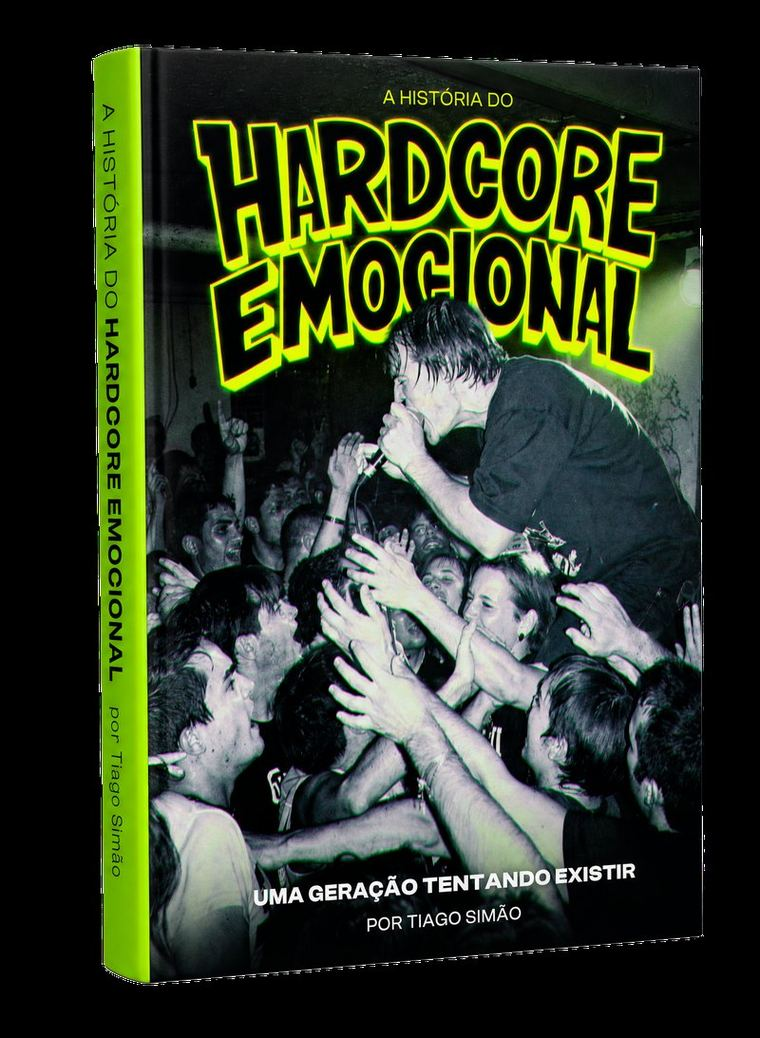
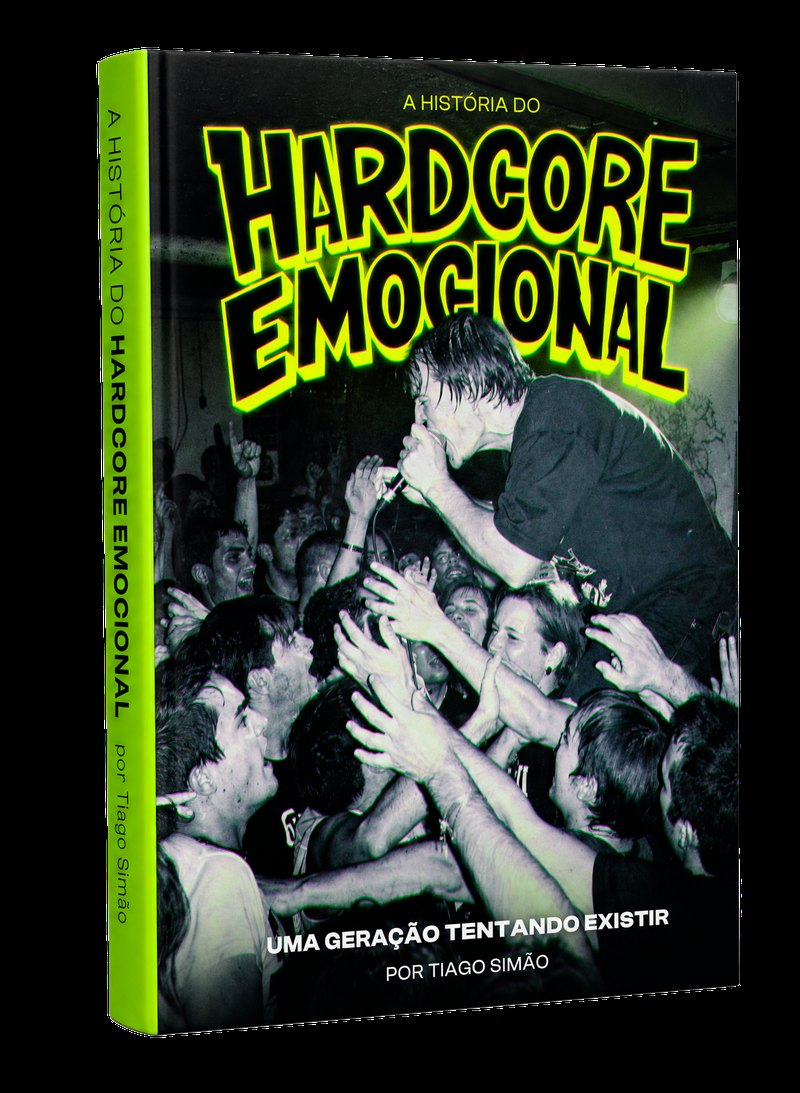
Restaura o mockup 3D do livro com fundo transparente (#46)
A otimização do PR #45 reconverteu livro.webp para VP8 sem canal alfa,
achatando os 31% de pixels transparentes do mockup 3D contra preto. Na
home (fundo escuro) e na aba "Peça seu Livro" (fundo verde) o livro
passou a aparecer dentro de uma caixa preta.

- livro.webp volta ao arquivo anterior (800×1093, RGBA, 116 KB), que é
  exatamente o que o site servia antes e renderiza com transparência.
- O fallback das duas tags <picture> passa a ser /livro.png, o PNG
  original do mockup, em vez de livro-800.jpg — JPEG não tem canal alfa,
  então o fallback também exibia fundo preto.
- width/height voltam a 800×1093, acompanhando o arquivo servido.

livro-800.jpg volta à versão anterior e deixa de ser referenciado.

Restante do PR #45 intacto: bloco de recompensas na home, buybar a 25%,
logo em 192×120 e o PDF do capítulo não foram tocados. Home continua
baixando 326 KB no primeiro carregamento; o PNG de 3,16 MB só seria
buscado por navegador sem suporte a WebP.

Claude-Session: https://claude.ai/code/session_01TWSh8XqtvVuPeZArKHsR43

diff --git a/index.html b/index.html
@@ -1105,9 +1105,9 @@
           <picture>
           <source srcset="/livro.webp" type="image/webp" />
           <img
-            src="/livro-800.jpg"
+            src="/livro.png"
             alt="Capa do livro A História do Hardcore Emocional"
-            width="760" height="1038"
+            width="800" height="1093"
             fetchpriority="high"
             style="
               display:block;
@@ -2040,7 +2040,7 @@
         <div class="order-book-img">
           <picture>
             <source srcset="/livro.webp" type="image/webp" />
-            <img src="/livro-800.jpg" alt="Capa do livro A História do Hardcore Emocional" width="760" height="1038" loading="lazy" decoding="async" style="max-width:100%;filter:drop-shadow(0 18px 40px rgba(0,0,0,.4))" />
+            <img src="/livro.png" alt="Capa do livro A História do Hardcore Emocional" width="800" height="1093" loading="lazy" decoding="async" style="max-width:100%;filter:drop-shadow(0 18px 40px rgba(0,0,0,.4))" />
           </picture>
         </div>
       </div>
